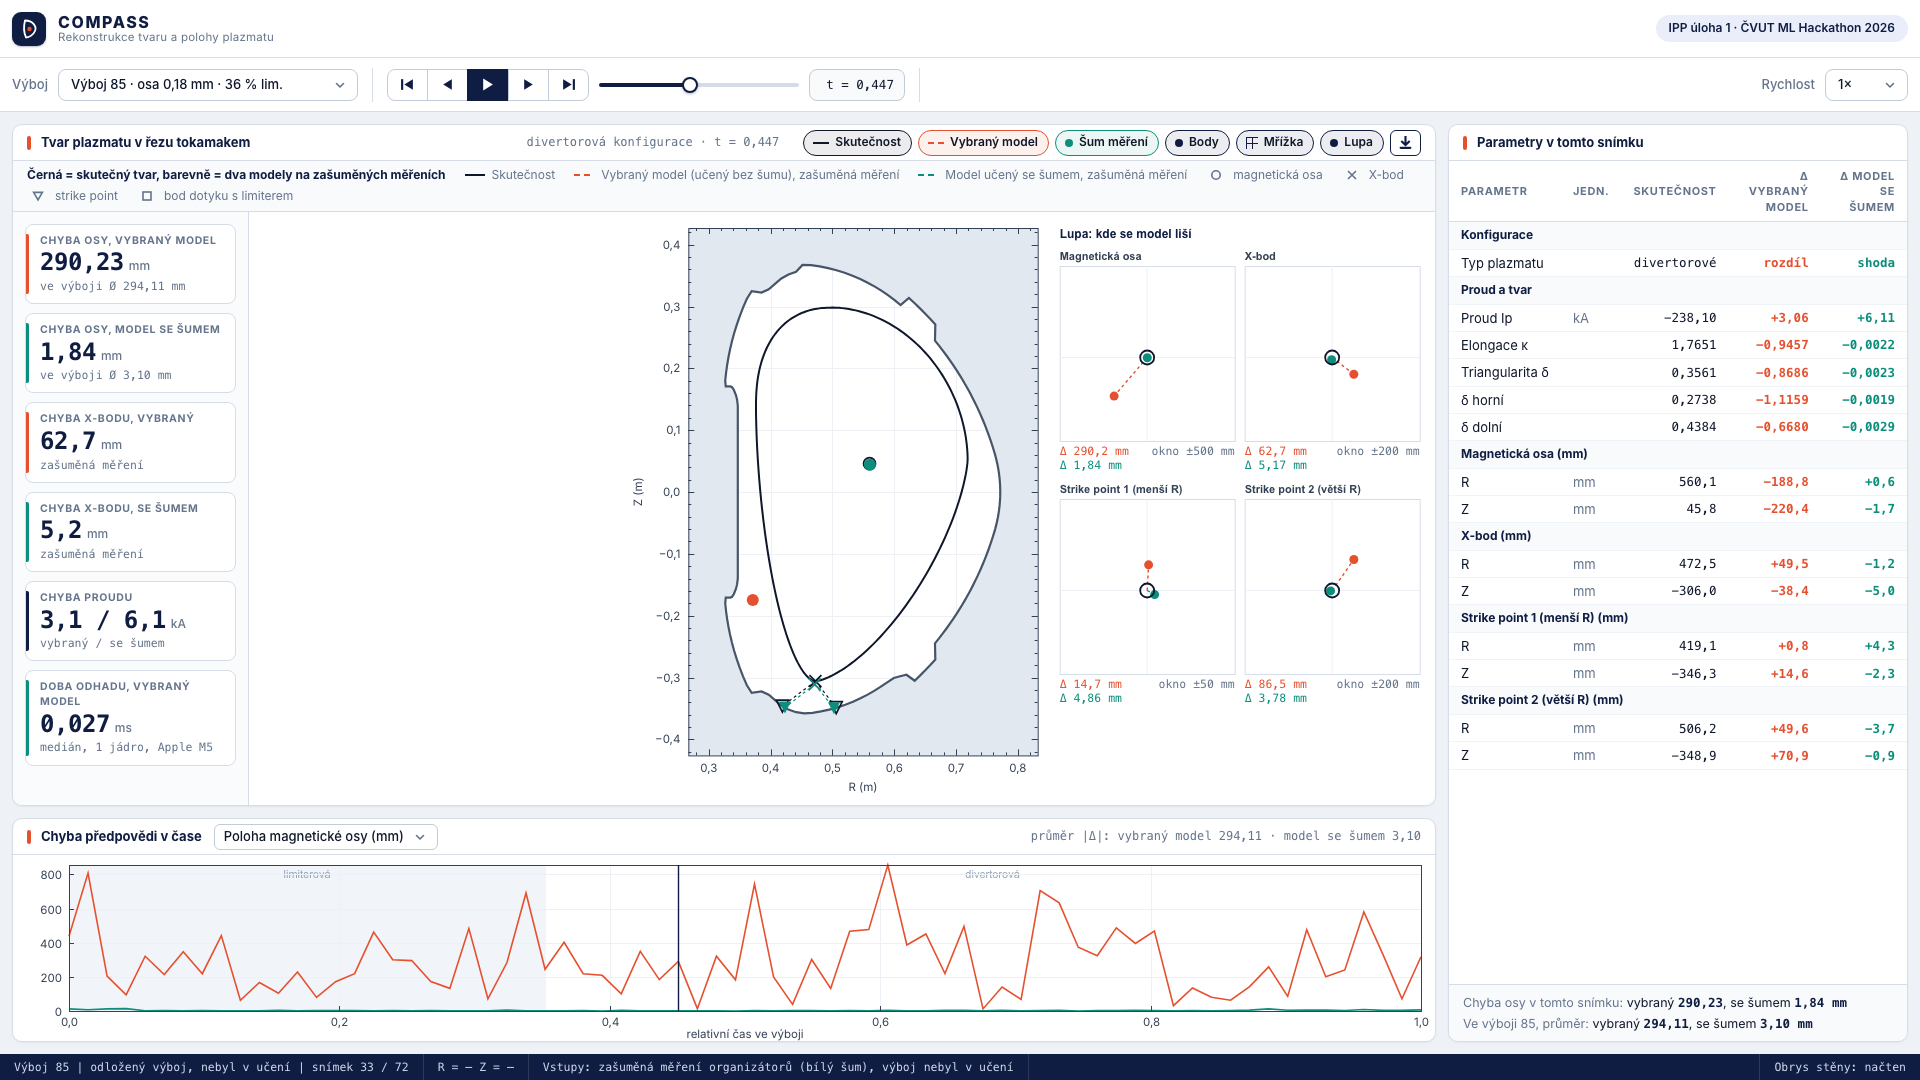
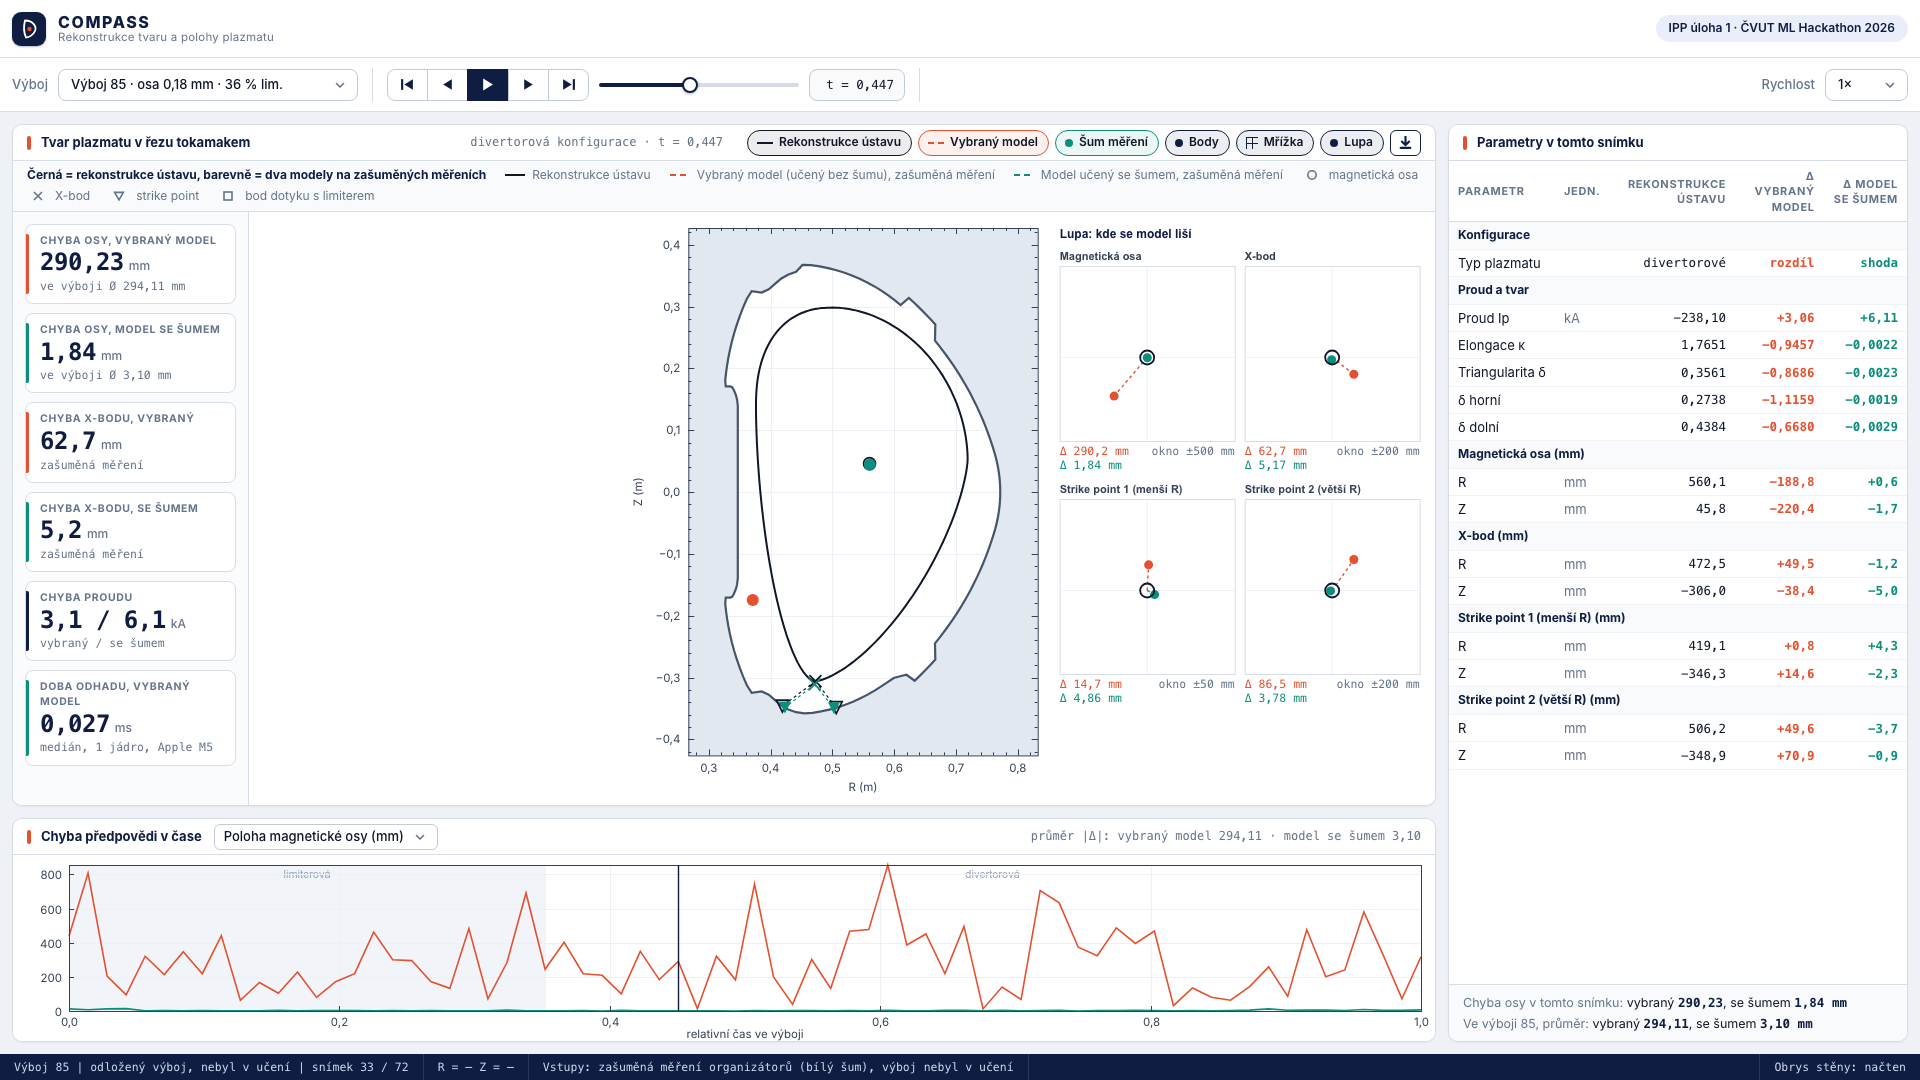
feat: label the true values of the viewer as the institute's reconstruction
Toggle, legend, table header, tiles and chart text say 'Rekonstrukce ústavu';
the table padding and a short chip label keep the delta column and the last
chips inside the panel at 1920x1080 and 1280x720. Stills refreshed.

diff --git a/viewer/index.html b/viewer/index.html
@@ -70,6 +70,7 @@ main { display: grid; grid-template-columns: minmax(0, 1fr) 460px; gap: 12px; pa
 .legendbar .warn { color: #b4361c; font-weight: 600; }
 .legendbar b { color: var(--ink); font-weight: 650; } .legendbar .it { display: inline-flex; align-items: center; gap: 6px; } .legendbar svg { width: 22px; height: 12px; overflow: visible; }
 .ph .chips { display: flex; gap: 6px; align-items: center; margin-left: 12px; }
+.chip .sh { display: none; }
 .ph .chip { height: 26px; padding: 0 10px 0 9px; font-size: 12px; gap: 6px; }
 .ph #export { height: 26px; min-width: 28px; padding: 0 7px; border-radius: 6px; }
 .stagebody { display: grid; grid-template-columns: 236px minmax(0, 1fr); min-height: 0; }
@@ -85,13 +86,13 @@ main { display: grid; grid-template-columns: minmax(0, 1fr) 460px; gap: 12px; pa
 .tablepanel { grid-template-rows: 36px minmax(0, 1fr) auto; }
 .scroll { overflow: auto; }
 table { width: 100%; border-collapse: collapse; font-size: 13px; }
-thead th { position: sticky; top: 0; background: var(--panel); border-bottom: 1px solid var(--border); text-align: right; font-weight: 650; font-size: 11px; letter-spacing: 0.06em; text-transform: uppercase; padding: 8px 12px 6px; color: var(--muted); }
+thead th { position: sticky; top: 0; background: var(--panel); border-bottom: 1px solid var(--border); text-align: right; font-weight: 650; font-size: 11px; letter-spacing: 0.06em; text-transform: uppercase; padding: 8px 9px 6px; color: var(--muted); }
 th:first-child, td:first-child { text-align: left; }
 th:nth-child(2), td:nth-child(2) { width: 48px; }
-td { padding: 4px 12px; border-bottom: 1px solid #f0f3f7; text-align: right; white-space: nowrap; }
+td { padding: 4px 9px; border-bottom: 1px solid #f0f3f7; text-align: right; white-space: nowrap; }
 tbody tr:not(.grp):hover td { background: #f6f8fc; }
 td.n { font-family: var(--mono); font-size: 12.5px; } td.t { color: var(--true); } td.p { color: var(--pred); font-weight: 550; } td.d { color: var(--muted); } td.k { color: #0b8f7c; font-weight: 600; } td.u { color: var(--muted); text-align: left; }
-tr.grp td { background: var(--head); color: var(--ink); font-weight: 650; font-size: 12px; padding: 5px 12px; border-top: 1px solid var(--border); text-align: left; }
+tr.grp td { background: var(--head); color: var(--ink); font-weight: 650; font-size: 12px; padding: 5px 9px; border-top: 1px solid var(--border); text-align: left; }
 .sum { border-top: 1px solid var(--border); background: var(--head); padding: 9px 14px; font-size: 12.5px; display: grid; gap: 3px; }
 .sum span { color: var(--muted); } .sum b { font-family: var(--mono); font-weight: 600; color: var(--ink); }
 .status { display: flex; align-items: center; background: var(--ink); color: #cfd8f0; font: 11.5px var(--mono); }
@@ -101,7 +102,8 @@ tr.grp td { background: var(--head); color: var(--ink); font-weight: 650; font-s
 @media (max-width: 1560px) { .stagepanel .ph .sp { display: none; } .ph .chips { margin-left: auto; } }
 @media (max-width: 1300px) {
   th:nth-child(2), td:nth-child(2) { display: none; }
-  .ph .chip { padding: 0 8px 0 7px; gap: 5px; font-size: 11.5px; } .ph .chips { gap: 4px; }
+  .ph .chip { padding: 0 8px 0 7px; gap: 5px; font-size: 11.5px; } .ph .chips { gap: 4px; margin-left: 6px; } .ph { gap: 6px; padding: 0 10px; }
+  .chip .lg { display: none; } .chip .sh { display: inline; }
   .stagebody { grid-template-columns: 190px minmax(0, 1fr); } .kpi b { font-size: 20px; } .rail { padding: 8px; gap: 7px; }
   thead th, td, tr.grp td { padding-left: 8px; padding-right: 8px; } td.n { font-size: 12px; }
   main { grid-template-columns: minmax(0, 1fr) 436px; padding: 8px; gap: 8px; } input[type=range] { width: 84px; } .tbox { width: 92px; }
@@ -119,7 +121,7 @@ tr.grp td { background: var(--head); color: var(--ink); font-weight: 650; font-s
   <span class="pill">IPP úloha 1 · ČVUT ML Hackathon 2026</span>
 </div>
 <div class="toolbar">
-  <div class="group"><label class="k" for="discharge">Výboj</label><select id="discharge" style="width:300px" title="Chyba osy = průměrná vzdálenost skutečné a předpovězené magnetické osy ve výboji, z těch snímků, které viewer ukazuje (každý třetí řádek dat); lim. = podíl času v limiterové konfiguraci"></select></div>
+  <div class="group"><label class="k" for="discharge">Výboj</label><select id="discharge" style="width:300px" title="Chyba osy = průměrná vzdálenost rekonstrukce ústavu a předpovězené magnetické osy ve výboji, z těch snímků, které viewer ukazuje (každý třetí řádek dat); lim. = podíl času v limiterové konfiguraci"></select></div>
   <div class="group">
     <span class="seg">
       <button id="first" title="Na začátek (Home)"><svg viewBox="0 0 14 14"><rect x="1" y="2" width="2" height="10"/><polygon points="12,2 4,7 12,12"/></svg></button>
@@ -135,12 +137,12 @@ tr.grp td { background: var(--head); color: var(--ink); font-weight: 650; font-s
 </div>
 <main>
   <div class="left">
-    <section class="panel stagepanel"><div class="ph">Tvar plazmatu v řezu tokamakem<span class="sp" id="cfgTag"></span><div class="chips"><label class="chip" style="--c:#0f172a"><input type="checkbox" id="showTrue" checked><span class="g"></span>Skutečnost</label><label class="chip" style="--c:#e5502f"><input type="checkbox" id="showPred" checked><span class="g dash"></span><span id="predChip">Předpověď</span></label><label class="chip" id="chipNoise" style="--c:#0b8f7c"><input type="checkbox" id="showNoise"><span class="g dot"></span>Šum měření</label><label class="chip" style="--c:#101d42"><input type="checkbox" id="showPts" checked><span class="g dot"></span>Body</label><label class="chip" style="--c:#101d42"><input type="checkbox" id="showGrid" checked><span class="g grid"></span>Mřížka</label><label class="chip" style="--c:#101d42"><input type="checkbox" id="showLens" checked><span class="g dot"></span>Lupa</label><button id="export" title="Uložit aktuální průřez jako obrázek (PNG)" aria-label="Uložit PNG"><svg viewBox="0 0 14 14"><path d="M6 1h2v6l2.2-2.2 1.4 1.4L7 10.8 2.4 6.2l1.4-1.4L6 7V1Z"/><rect x="1.5" y="11" width="11" height="2" rx="1"/></svg></button></div></div><div class="legendbar" id="legendbar"></div><div class="stagebody"><aside class="rail" id="rail"></aside><div class="pb"><canvas id="stage"></canvas></div></div></section>
+    <section class="panel stagepanel"><div class="ph">Tvar plazmatu v řezu tokamakem<span class="sp" id="cfgTag"></span><div class="chips"><label class="chip" style="--c:#0f172a"><input type="checkbox" id="showTrue" checked><span class="g"></span><span class="lg">Rekonstrukce ústavu</span><span class="sh" title="Rekonstrukce ústavu">Rekonstrukce</span></label><label class="chip" style="--c:#e5502f"><input type="checkbox" id="showPred" checked><span class="g dash"></span><span id="predChip">Předpověď</span></label><label class="chip" id="chipNoise" style="--c:#0b8f7c"><input type="checkbox" id="showNoise"><span class="g dot"></span>Šum měření</label><label class="chip" style="--c:#101d42"><input type="checkbox" id="showPts" checked><span class="g dot"></span>Body</label><label class="chip" style="--c:#101d42"><input type="checkbox" id="showGrid" checked><span class="g grid"></span>Mřížka</label><label class="chip" style="--c:#101d42"><input type="checkbox" id="showLens" checked><span class="g dot"></span>Lupa</label><button id="export" title="Uložit aktuální průřez jako obrázek (PNG)" aria-label="Uložit PNG"><svg viewBox="0 0 14 14"><path d="M6 1h2v6l2.2-2.2 1.4 1.4L7 10.8 2.4 6.2l1.4-1.4L6 7V1Z"/><rect x="1.5" y="11" width="11" height="2" rx="1"/></svg></button></div></div><div class="legendbar" id="legendbar"></div><div class="stagebody"><aside class="rail" id="rail"></aside><div class="pb"><canvas id="stage"></canvas></div></div></section>
     <section class="panel"><div class="ph">Chyba předpovědi v čase <select id="param" aria-label="Parametr"></select><span class="sp" id="chartStats"></span></div><div class="pb"><canvas id="chart"></canvas></div></section>
   </div>
   <section class="panel tablepanel">
     <div class="ph">Parametry v tomto snímku</div>
-    <div class="scroll"><table><thead><tr><th>Parametr</th><th style="text-align:left">Jedn.</th><th>Skutečnost</th><th id="th4">Předpověď</th><th id="th5">Δ</th></tr></thead><tbody id="rows"></tbody></table></div>
+    <div class="scroll"><table><thead><tr><th>Parametr</th><th style="text-align:left">Jedn.</th><th>Rekonstrukce ústavu</th><th id="th4">Předpověď</th><th id="th5">Δ</th></tr></thead><tbody id="rows"></tbody></table></div>
     <div class="sum" id="sum"></div>
   </section>
 </main>
@@ -158,11 +160,11 @@ const COL = { true: css("--true"), pred: css("--pred"), grid: css("--grid"), mut
 const SHIPPED = D.model === "shipped";
 const TXT = SHIPPED
   ? { pred: "Vybraný model", chip: "Vybraný model", a: "Vybraný model (učený bez šumu), zašuměná měření", b: "Model učený se šumem, zašuměná měření", an: "vybraný model", bn: "model se šumem", as: "vybraný", bs: "se šumem",
-      legend: "Černá = skutečný tvar plazmatu, červeně = předpověď vybraného modelu z 24 magnetických čidel (body; obrys model nepředpovídá)",
-      legendNoise: "Černá = skutečný tvar, barevně = dva modely na zašuměných měřeních", lens: "Lupa: kde se model liší", axisTile: "Chyba osy, vybraný model", th: "Vybraný model",
+      legend: "Černá = rekonstrukce tvaru plazmatu ústavem, červeně = předpověď vybraného modelu z 24 magnetických čidel (body; obrys model nepředpovídá)",
+      legendNoise: "Černá = rekonstrukce ústavu, barevně = dva modely na zašuměných měřeních", lens: "Lupa: kde se model liší", axisTile: "Chyba osy, vybraný model", th: "Vybraný model",
       limWarn: "Limiterový snímek: bod dotyku s limiterem je nejméně přesná veličina." }
   : { pred: "Předpověď sítě", chip: "Předpověď", a: "Běžná síť, zašuměná měření", b: "Odolná síť, zašuměná měření", an: "běžná síť", bn: "odolná síť", as: "běžná", bs: "odolná",
-      legend: "Černá = skutečný tvar plazmatu, červeně = předpověď sítě z 24 magnetických čidel", legendNoise: "Černá = skutečný tvar, barevně = dvě sítě na zašuměných měřeních",
+      legend: "Černá = rekonstrukce tvaru plazmatu ústavem, červeně = předpověď sítě z 24 magnetických čidel", legendNoise: "Černá = rekonstrukce ústavu, barevně = dvě sítě na zašuměných měřeních",
       lens: "Lupa: kde se síť liší", axisTile: "Chyba polohy osy", th: "Předpověď", limWarn: "Limiterový snímek: okraj je méně jistý, vnitřní strana se může lišit o 25 až 30 mm." };
 $("#predChip").textContent = TXT.chip;
 const MINUS = "−";
@@ -297,7 +299,7 @@ function drawLegendBar() {
   const glyph = (k, col) => k === "line" || k === "dash"
     ? `<svg viewBox="0 0 22 12"><line x1="1" y1="6" x2="21" y2="6" stroke="${col}" stroke-width="2.2" ${k === "dash" ? 'stroke-dasharray="6 4"' : ""}/></svg>`
     : `<svg viewBox="0 0 22 12"><g transform="translate(11 6)" stroke="#64748b" stroke-width="1.6" fill="none">${{ circle: '<circle r="4.2"/>', x: '<path d="M-4-4L4 4M4-4L-4 4"/>', tri: '<path d="M-4.4-3.6H4.4L0 4Z"/>', square: '<rect x="-4" y="-4" width="8" height="8"/>' }[k]}</g></svg>`;
-  const items = [["line", "Skutečnost", COL.true], ...sets().map(([, col, label]) => ["dash", label, col]), ["circle", "magnetická osa"], ["x", "X-bod"], ["tri", "strike point"], ["square", "bod dotyku s limiterem"]];
+  const items = [["line", "Rekonstrukce ústavu", COL.true], ...sets().map(([, col, label]) => ["dash", label, col]), ["circle", "magnetická osa"], ["x", "X-bod"], ["tri", "strike point"], ["square", "bod dotyku s limiterem"]];
   $("#legendbar").innerHTML = `<span><b>${state.noise ? TXT.legendNoise : TXT.legend}</b></span>` +
     items.map(([k, label, col]) => `<span class="it">${glyph(k, col)}${label}</span>`).join("") +
     (isLimited(cur().c, state.i, "") ? `<span class="it warn">${TXT.limWarn}</span>` : "");
@@ -390,7 +392,7 @@ function drawRail() {
   const tile = (label, val, unit, sub, hot) => `<div class="kpi${hot === true ? " hot" : hot ? " " + hot : ""}"><span>${label}</span><b>${val}<small>${unit}</small></b><em>${sub}</em></div>`;
   const pair = (name, k, dec, label, unit) => {
     const t = value(c, i, name, false), p = value(c, i, name, true);
-    return tile(label, fmt(p == null ? null : p * k, dec), unit, t == null || p == null ? "–" : `Δ ${fmtSigned((p - t) * k, dec)} · skut. ${fmt(t * k, dec)}`);
+    return tile(label, fmt(p == null ? null : p * k, dec), unit, t == null || p == null ? "–" : `Δ ${fmtSigned((p - t) * k, dec)} · rek. ${fmt(t * k, dec)}`);
   };
   const key = lt ? ["R_limiter", "Z_limiter", "bodu limiteru"] : ["R_x_point", "Z_x_point", "X-bodu"];
   if (state.noise) {
@@ -497,8 +499,8 @@ function drawChart() {
   ctx.fillText("relativní čas ve výboji", L + W / 2, f.h - 3);
   const x = Math.round(px(state.i)) + 0.5; ctx.strokeStyle = "#101d42"; ctx.lineWidth = 1.4; ctx.beginPath(); ctx.moveTo(x, T); ctx.lineTo(x, T + H); ctx.stroke();
   const stat = (q) => { const a = q.s.filter((v) => v != null).map(Math.abs); return a.length ? `${fmt(avg(a), 2)}` : "–"; };
-  $("#chartStats").textContent = state.noise ? `${signed ? "Δ = předpověď − skutečnost · " : ""}průměr |Δ|: ${TXT.an} ${stat(ss[0])} · ${TXT.bn} ${stat(ss[1])}`
-    : `${signed ? "Δ = předpověď − skutečnost · " : ""}průměr |Δ| ${stat(ss[0])} · největší |Δ| ${fmt(Math.max(...valid.map(Math.abs)), 1)}`;
+  $("#chartStats").textContent = state.noise ? `${signed ? "Δ = předpověď − rekonstrukce · " : ""}průměr |Δ|: ${TXT.an} ${stat(ss[0])} · ${TXT.bn} ${stat(ss[1])}`
+    : `${signed ? "Δ = předpověď − rekonstrukce · " : ""}průměr |Δ| ${stat(ss[0])} · největší |Δ| ${fmt(Math.max(...valid.map(Math.abs)), 1)}`;
 }
 function chartSeek(ev) {
   if (!cgeom) return; const r = chart.getBoundingClientRect();

diff --git a/viewer/README.md b/viewer/README.md
@@ -1,6 +1,6 @@
 # Plasma shape viewer
 
-An offline page that shows, for one discharge of the COMPASS data, the true plasma shape against the prediction of the **shipped model** (`cand` of `analysis/ipp1_final.py`, see `results/ipp1-final.md`), with the
+An offline page that shows, for one discharge of the COMPASS data, the institute's reconstruction of the plasma shape (the "true" values of the data, labelled *Rekonstrukce ústavu*) against the prediction of the **shipped model** (`cand` of `analysis/ipp1_final.py`, see `results/ipp1-final.md`), with the
 parameter table, the error over time, magnifier tiles around the key points, the latency of the shipped pair and a "measurement noise" mode (the shipped model trained on clean data
 against the baseline network trained with noise, both on the provided noisy inputs).
 
